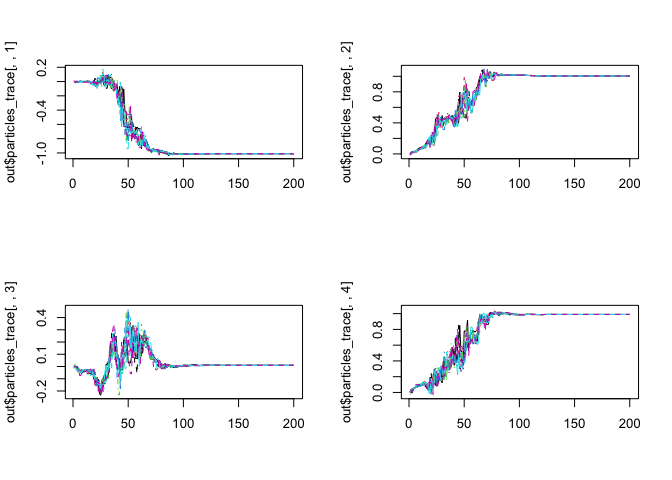
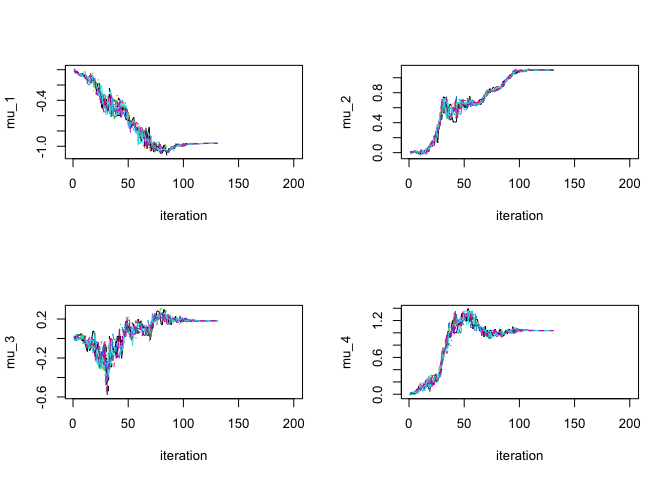
added convergence criterion metric

diff --git a/README.md b/README.md
@@ -38,17 +38,18 @@ devtools::install_github("bmgaldo/graDiEnt")
 
 ## Example
 
-This is a basic example which shows you how to solve a common problem:
+This is a basic application of the package to a toy optimization
+problem.
 
 ``` r
 library(graDiEnt)
-
+set.seed(123)
 ##############
 # Maximum Likelihood Example
 ##############
 
 # simulate from model
-dataExample=matrix(rnorm(1000,c(-1,1,0,1),c(.1,.1,.1,.1)),ncol=4,byrow = TRUE)
+dataExample=matrix(rnorm(100,c(-1,1,0,1),c(1,1,1,1)),ncol=4,byrow = TRUE)
 
 # list parameter names
 param_names_example=c("mu_1","mu_2","mu_3","mu_4")
@@ -60,10 +61,10 @@ ExampleObjFun=function(x,data,param_names){
   names(x) <- param_names
 
   # log likelihoods
-  out=out+sum(dnorm(data[,1],x["mu_1"],sd=.1,log=TRUE))
-  out=out+sum(dnorm(data[,2],x["mu_2"],sd=.1,log=TRUE))
-  out=out+sum(dnorm(data[,3],x["mu_3"],sd=.1,log=TRUE))
-  out=out+sum(dnorm(data[,4],x["mu_4"],sd=.1,log=TRUE))
+  out=out+sum(dnorm(data[,1],x["mu_1"],sd=1,log=TRUE))
+  out=out+sum(dnorm(data[,2],x["mu_2"],sd=1,log=TRUE))
+  out=out+sum(dnorm(data[,3],x["mu_3"],sd=1,log=TRUE))
+  out=out+sum(dnorm(data[,4],x["mu_4"],sd=1,log=TRUE))
 
   return(out*-1)
 }
@@ -72,9 +73,9 @@ ExampleObjFun=function(x,data,param_names){
 # run optimization
 out <- optim_SQGDE(ObjFun = ExampleObjFun,
                    control_params = GetAlgoParams(n_params=length(param_names_example),
-                                             n_iter=200,
-                                              n_particles=12,
-                                              n_diff=2,
+                                             n_iter = 200,
+                                              n_particles = 12,
+                                              n_diff = 2,
                                               return_trace = TRUE),
                    data = dataExample,
                    param_names = param_names_example)
@@ -94,15 +95,15 @@ out <- optim_SQGDE(ObjFun = ExampleObjFun,
 #> [1] "population initialization complete  :)"
 #> [1] "running SQG-DE..."
 #> [1] "iter 100/200"
-#> [1] "iter 200/200"
+#> [1] "Convergence criterion met. Stopping optimization early"
 #> [1] "run complete!"
 
 # plot particle trajectory
 par(mfrow=c(2,2))
-matplot(out$particles_trace[,,1],type='l')
-matplot(out$particles_trace[,,2],type='l')
-matplot(out$particles_trace[,,3],type='l')
-matplot(out$particles_trace[,,4],type='l')
+matplot(out$particles_trace[,,1],type='l',ylab="mu_1",xlab="iteration")
+matplot(out$particles_trace[,,2],type='l',ylab="mu_2",xlab="iteration")
+matplot(out$particles_trace[,,3],type='l',ylab="mu_3",xlab="iteration")
+matplot(out$particles_trace[,,4],type='l',ylab="mu_4",xlab="iteration")
 ```
 
 <img src="man/figures/README-example-1.png" width="100%" />
@@ -111,9 +112,9 @@ matplot(out$particles_trace[,,4],type='l')
 
 #SQG DE solution
 out$solution
-#> [1] -1.009956878  1.002347824  0.009341201  0.989630743
+#> [1] -0.9623938  1.1032798  0.1835086  1.0376028
 
 #analytic solution
 apply(dataExample, 2, mean)
-#> [1] -1.009956678  1.002347746  0.009341098  0.989630773
+#> [1] -0.9625315  1.1031771  0.1835243  1.0374537
 ```
